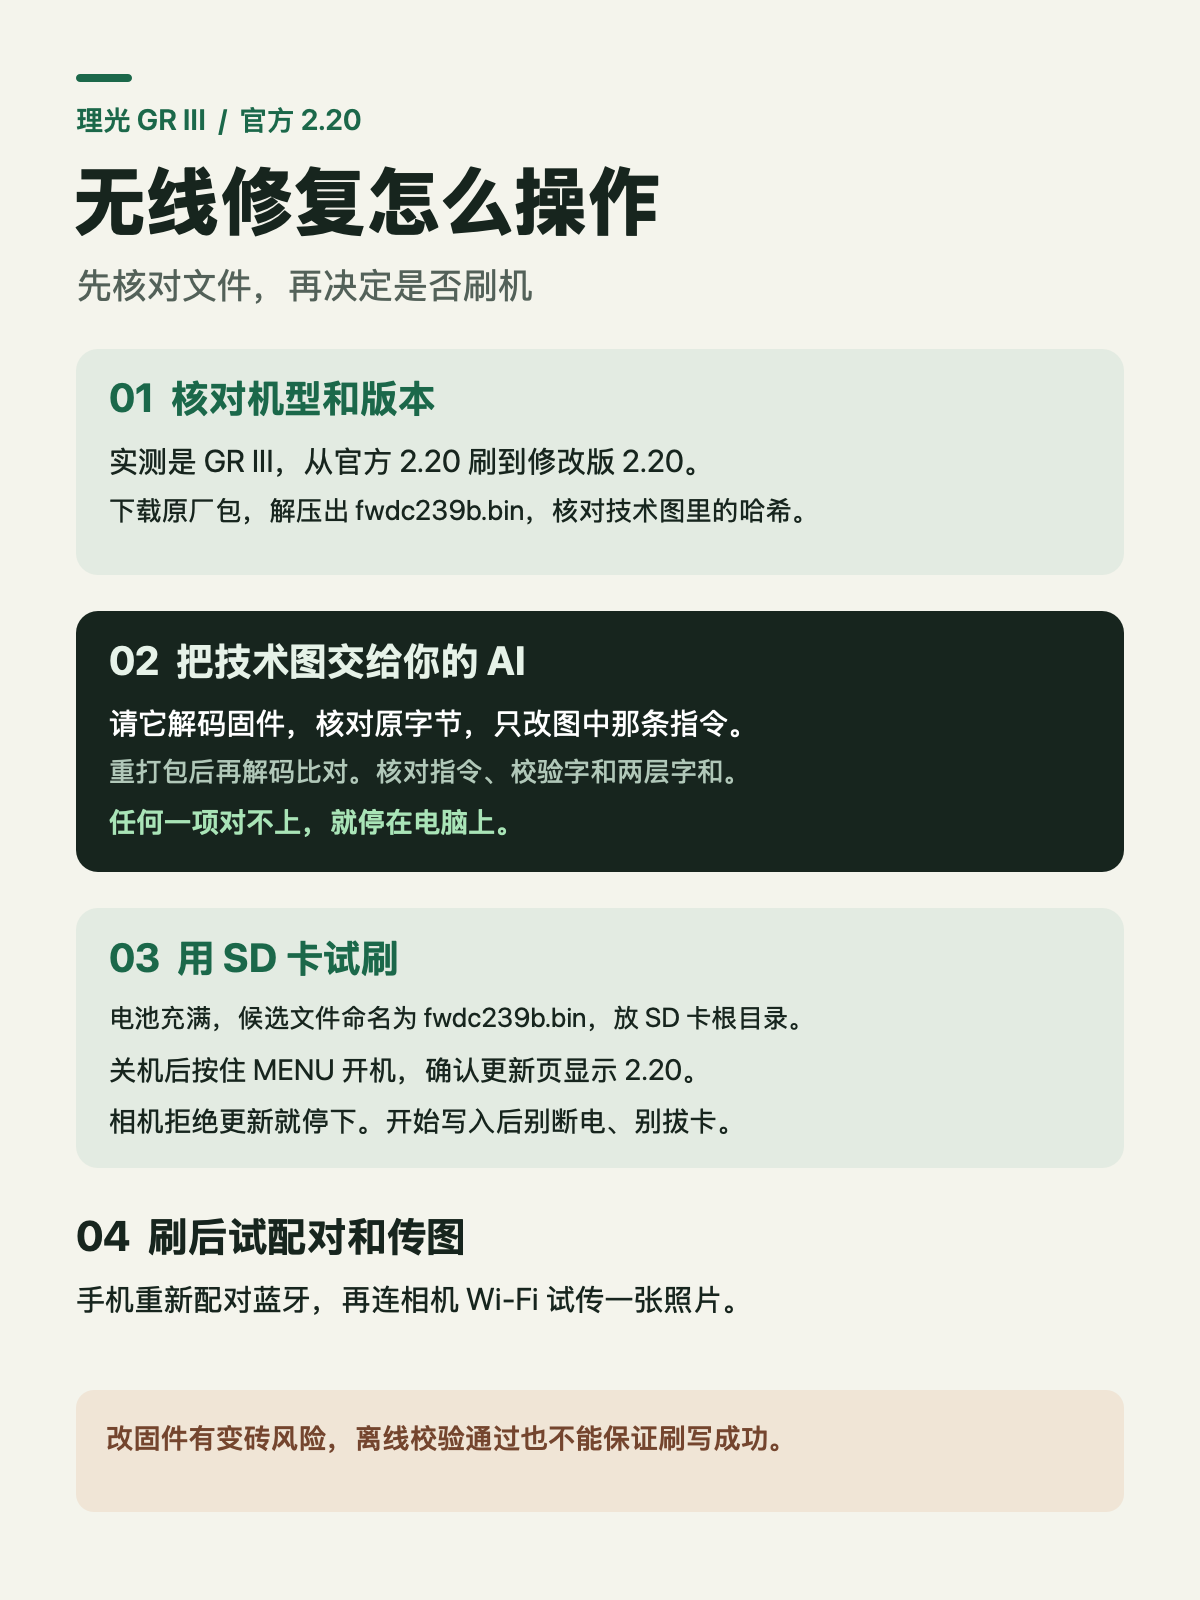
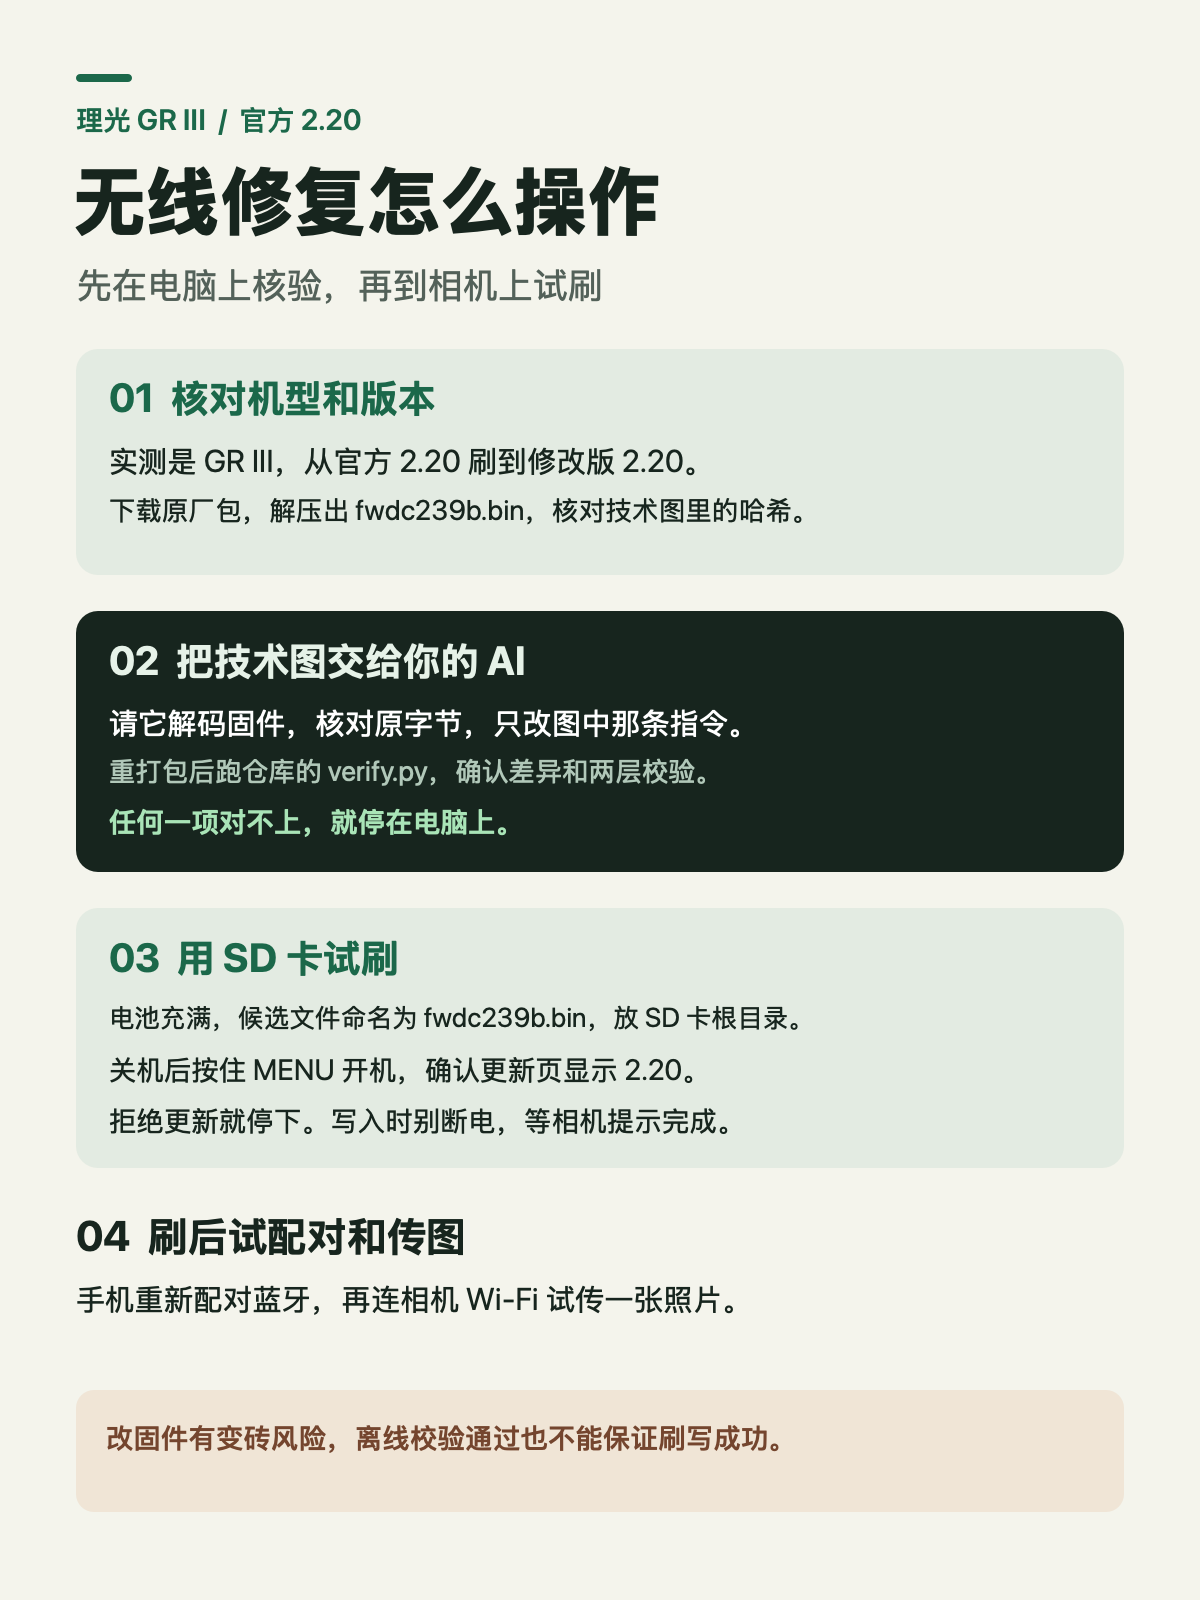
Structure wireless repair docs and record open diagnosis

Changed region(s): [[0.0925, 0.6875, 0.6167, 0.7188], [0.185, 0.4688, 0.6167, 0.5], [0.0925, 0.1562, 0.4933, 0.1875]]

diff --git a/verify.py b/verify.py
@@ -29,7 +29,15 @@ def main():
     if stock[:128] != candidate[:128] or stock[-24:-12] != candidate[-24:-12]:
         raise ValueError("Container header or footer identity fields differ.")
 
+    stock_metadata = stock[stock_info["metadata_start"]:-24]
+    candidate_metadata = candidate[candidate_info["metadata_start"]:-24]
+    if candidate_metadata != stock_metadata:
+        raise ValueError("Container metadata differs.")
+
     def decode(data, info):
+        padding = data[info["payload_end"]:info["metadata_start"]]
+        if any(padding):
+            raise ValueError("Nonzero container alignment padding.")
         decoded, _ = decode_payload(data[128:info["payload_end"]], info["decoded_size"])
         if info["additive_sum32"] != 0 or sum32(decoded) != 0:
             raise ValueError("Container or decoded payload checksum failed.")

diff --git a/README.md b/README.md
@@ -1,60 +1,28 @@
 # Ricoh GR III 2.20 蓝牙与 Wi-Fi 修复记录
 
-一次 GR III 实机复现。升级固件后，先发现蓝牙无法配对，后来发现相机里 WLAN 能选「打开」，但图标仍灰，手机和 Mac 都搜不到热点。关机长按回放键也无法启动热点。最初出问题时的版本记不清，可能是 1.91 或 2.00。此后升级到官方 2.20，故障仍在。从**官方 2.20 刷到基于同一官方版本的修改版 2.20**后，本机无线功能恢复。
+我的 GR III 在一次固件升级后先是蓝牙配不上，后来发现 Wi-Fi 菜单能选「打开」，但图标仍灰，手机和 Mac 都搜不到热点。长按回放键也没有启动热点。最早出问题时的固件版本记不清，可能是 1.91 或 2.00。官方 2.20 仍有同样症状。
 
-仓库记录分析、核对和实机过程。原厂固件请从理光下载。改固件和刷机有风险，离线核验通过也无法保证相机接受更新、正常开机或恢复无线功能。理光的固件许可见官方更新页。
+**单台实测结果**
 
-![操作流程](docs/how-to.png)
+GR III 从官方 2.20 刷到基于同版原厂镜像制作的修改版 2.20 后，无线功能恢复。改动让固件对机身调整数据的这一项检查通过。为什么原来过不了，仍待查证。
 
-## 为什么这个方法在本机有效
+## 从哪里开始
 
-固件在启用 WLAN 和 BLE 时读取机身调整数据里的一个值。这个值没通过检查时，固件会进入无线禁用分支，并有对应日志 `wlan and ble control is disabled by adjust data`。为什么那次升级后这项检查过不了，目前不清楚。改动把这项检查的结果固定为通过，保留函数的其他启用条件，机身调整数据不写入。旧版反汇编图提供了线索，下文的位置是在官方 2.20 镜像上重新确认的。
+| 要做什么 | 看哪里 |
+| --- | --- |
+| 对照症状、版本和试刷流程 | [机友操作指南](docs/camera-workflow.md) |
+| 核对原厂文件、指令位置、重打包和校验 | [电脑端复现记录](docs/reproduction.md) |
+| 把任务交给能操作本地文件的 AI | [AI 执行清单](docs/ai-handoff.md) |
+| 查看为什么标记会触发禁用 | [未解决的问题](docs/open-question.md) |
+| 对照手里的候选文件 | [只读校验脚本](verify.py) |
 
-## 原厂输入和唯一改动
+![GR III 2.20 修复操作图](docs/how-to.png)
 
-- 机型为 **GR III**，实测起始版本为**官方 2.20**。
-- 下载 [理光官方 gr3_v220.zip](https://www.ricoh-imaging.co.jp/resources/japan/support/download/digital/FIRMWARE/gr3_v220.zip)，解压得到 `fwdc239b.bin`，大小为 30,472,516 字节。
[1 lines of base64/hex data omitted]
-- 用下文的容器解析器读出 payload 边界和解码大小。对完整 payload 解码。偏移 **0x3ED7E4** 从解码结果的第一个字节起算，位于 RTOS 段内。
-- 偏移前 8 字节开始的上下文如下，在指定原厂镜像解码结果中唯一。只替换方括号内四字节。
+仓库内无固件 BIN。原厂固件通过理光官网获取。刷写修改版固件可能导致相机无法开机，离线校验通过也无法保证更新或修复成功。
 
-```text
-B4 00 D3 E1 10 4F 6F E1 [A4 42 A0 E1] 00 00 54 E3 07 00 00 1A
-LSR R4, R4, #5 → MOV R4, #1
-A4 42 A0 E1    → 01 40 A0 E3
-```
+## 来源
 
-![原厂镜像、指令及校验](docs/patch-reference.png)
-
-## 重打包和验证
-
-1. 保留原厂解码段布局，更新解码 payload 末尾校验字，使小端 32 位字和模 2³² 为零。
-2. 用原厂容器作模板重打包。实测文件尽可能复用原厂压缩帧。对不能解码出目标字节的帧，用同一编解码器允许的 literal 帧编码，再更新容器长度与末尾校验字。实测文件替换了两个帧。
-3. 对生成的文件重新解码。逐字节核对解码结果只在该指令和末尾校验字处有差异。完整容器和解码 payload 的 32 位字和都应为零。
[1 lines of base64/hex data omitted]
-
-### 给 AI 的容器处理细节
-
-- `inspect_container(stock)` 提供 `payload_end` 和 `decoded_size`。把 `stock[128:payload_end]` 交给 `decode_payload`，得到完整的解码字节与帧坐标。别把 RTOS 段单独切出来后再使用上面的偏移。
-- 重包时，对每个原始帧，使用**已修改的前序解码字节**尝试解码该帧，确认结果仍等于目标片段再复用原始编码。压缩回引用可以跨帧，单看当前帧覆盖范围不足以判断是否能复用。实测中替换的片段使用不超过 `0x6000` 字节的 literal 帧。
-- 保留流结束标记和原厂容器头，用解析器的 `framed_container` 处理对齐、容器尾部长度及整包校验。最后从生成的 BIN 重新解码再运行校验。
-- 如果 AI 只能在聊天窗口读图、无法实际运行二进制解码和比对，就让它先给出本地操作方案。实际校验需要在能读取两个 BIN 的电脑上执行。
-
-## 在电脑上只读核验
-
-使用 Python 3 和公开的 [gr-custom-tool](https://github.com/DoYitNow/gr-custom-tool) 容器解析器。本仓库的校验脚本只读取输入文件，解析器由使用者另行获取。
-
-```sh
-git clone https://github.com/DoYitNow/gr-custom-tool.git
-git -C gr-custom-tool checkout 258d745aab8691fbbeb4a68b024be9a24333c9ea
-python3 verify.py --codec ./gr-custom-tool /path/to/stock.bin /path/to/candidate.bin
-```
-
-可以把本页、两张图和自己下载的原厂 BIN 交给 AI，要求它先核对原厂哈希及指令上下文，再生成候选并运行上述校验。任一检查失败就停在电脑上。相机拒绝更新时停下，记录提示。
-
-## 相机端实测步骤
-
-使用充满电的电池。将候选命名为 `fwdc239b.bin`，单独放到 SD 卡根目录。关机后按住 MENU 开机，在正常更新确认页核对目标版本 2.20。开始写入后不要断电或拔卡。完成后重启，可以通过蓝牙重新配对和 Wi-Fi 实际传图检查效果。
-
-- [理光 GR III 更新步骤和许可](https://www.ricoh-imaging.co.jp/english/support/digital/gr3_s.html)
-- [社区 GR III 2.10 调查记录](https://github.com/idontknownihil/gr3-film-mods/blob/main/FINDINGS.md#22a-camera-result-factory-mode-2026-10-08-entry-works-on-gr-iii-210)。最初的单指令思路来自机友的 2.10 反汇编截图。
+- [理光 GR III 更新步骤与固件许可](https://www.ricoh-imaging.co.jp/english/support/digital/gr3_s.html)
+- [社区 GR III 2.10 实机日志记录](https://github.com/idontknownihil/gr3-film-mods/blob/main/FINDINGS.md#22a-camera-result-factory-mode-2026-10-08-entry-works-on-gr-iii-210)
+- [gr-custom-tool 容器解析器](https://github.com/DoYitNow/gr-custom-tool)。使用者按复现指南另行获取固定版本。
+- 单指令改动的思路来自一位机友分享的 2.10 反汇编截图。2.20 的位置和字节由原厂镜像重新核对。

diff --git a/docs/reproduction.md b/docs/reproduction.md
@@ -1,0 +1,49 @@
+# 在电脑上复现 GR III 2.20 的无线补丁
+
+## 原厂输入和唯一改动
+
+- 机型为 **GR III**，实测起始版本为**官方 2.20**。
+- 下载 [理光官方 gr3_v220.zip](https://www.ricoh-imaging.co.jp/resources/japan/support/download/digital/FIRMWARE/gr3_v220.zip)，解压得到 `fwdc239b.bin`，大小为 30,472,516 字节。
[1 lines of base64/hex data omitted]
+- 用下文的容器解析器读出 payload 边界和解码大小。对完整 payload 解码。偏移 **0x3ED7E4** 从解码结果的第一个字节起算，位于 RTOS 段内。
+- 偏移前 8 字节开始的上下文如下，在指定原厂镜像解码结果中唯一。只替换方括号内四字节。
+
+```text
+B4 00 D3 E1 10 4F 6F E1 [A4 42 A0 E1] 00 00 54 E3 07 00 00 1A
+LSR R4, R4, #5 → MOV R4, #1
+A4 42 A0 E1    → 01 40 A0 E3
+```
+
+![原厂镜像、指令及校验](patch-reference.png)
+
+## 重打包和验证
+
+1. 保留原厂解码段布局，更新解码 payload 末尾校验字，使小端 32 位字和模 2³² 为零。
+2. 用原厂容器作模板重打包。实测文件尽可能复用原厂压缩帧。对不能解码出目标字节的帧，用同一编解码器允许的 literal 帧编码，再更新容器长度与末尾校验字。实测文件替换了两个帧。
+3. 对生成的文件重新解码。逐字节核对解码结果只在该指令和末尾校验字处有差异。完整容器和解码 payload 的 32 位字和都应为零。
[1 lines of base64/hex data omitted]
+
+### 给 AI 的容器处理细节
+
+- `inspect_container(stock)` 提供 `payload_end` 和 `decoded_size`。把 `stock[128:payload_end]` 交给 `decode_payload`，得到完整的解码字节与帧坐标。别把 RTOS 段单独切出来后再使用上面的偏移。
+- 重包时，对每个原始帧，使用**已修改的前序解码字节**尝试解码该帧，确认结果仍等于目标片段再复用原始编码。压缩回引用可以跨帧，单看当前帧覆盖范围不足以判断是否能复用。实测中替换的片段使用不超过 `0x6000` 字节的 literal 帧。
+- 保留流结束标记和原厂容器头，用解析器的 `framed_container` 处理对齐、容器尾部长度及整包校验。最后从生成的 BIN 重新解码再运行校验。
+- 如果 AI 只能在聊天窗口读图、无法实际运行二进制解码和比对，就让它先给出本地操作方案。实际校验需要在能读取两个 BIN 的电脑上执行。
+
+## 在电脑上只读核验
+
+使用 Python 3 和公开的 [gr-custom-tool](https://github.com/DoYitNow/gr-custom-tool) 容器解析器。本仓库的校验脚本只读取输入文件，解析器由使用者另行获取。
+
+```sh
+git clone https://github.com/DoYitNow/gr-custom-tool.git
+git -C gr-custom-tool checkout 258d745aab8691fbbeb4a68b024be9a24333c9ea
+python3 verify.py --codec ./gr-custom-tool /path/to/stock.bin /path/to/candidate.bin
+```
+
+可以把本页、两张图和自己下载的原厂 BIN 交给 AI，要求它先核对原厂哈希及指令上下文，再生成候选并运行上述校验。任一检查失败就停在电脑上。相机拒绝更新时停下，记录提示。
+
+## 核验输出怎么读
+
+- `PASS` 表示候选通过脚本列出的离线检查。候选哈希与实测文件相同，表示文件逐字节相同。哈希不同时，可以对照具体容器差异，不能把候选称为实测文件。
+- `FAIL` 或异常表示核验未通过。保留原厂输入，查看失败原因，修正后再跑。没有实际运行工具时，结果记为未核验。
+- 这份记录只涵盖文中 SHA-256 对应的 GR III 2.20 原厂镜像。其他机型、固件版本和从其他版本刷入的情况未验证。

diff --git a/docs/camera-workflow.md b/docs/camera-workflow.md
@@ -1,0 +1,19 @@
+# 机友操作指南
+
+## 先对照症状
+
+这次实测的机身是理光 GR III，刷入前为官方 2.20。故障在更早的一次升级后出现。先是蓝牙配不上，随后发现 Wi-Fi 菜单能选「打开」，但图标仍灰，手机和 Mac 都搜不到热点。关机长按回放键也没有启动热点。即使症状相似，故障原因也可能不同。
+
+## 在电脑上准备
+
+从[理光官方 2.20 下载地址](https://www.ricoh-imaging.co.jp/resources/japan/support/download/digital/FIRMWARE/gr3_v220.zip)取得原厂镜像，解出 `fwdc239b.bin`。按[复现记录](reproduction.md)核对机型、版本和原厂 BIN 哈希，再让 AI 按[执行清单](ai-handoff.md)处理。用只读校验脚本检查生成的候选文件。检查失败或没有实际运行时，先停在电脑上。
+
+## 试刷与测试
+
+1. 备份 SD 卡内容，准备一张在相机中格式化过的空卡和一块充满电的电池。
+2. 保留原厂文件备份。将已核验的候选文件命名为 `fwdc239b.bin`，单独放在 SD 卡根目录。
+3. 相机关机，插卡，按住 MENU 再开机。在更新确认页核对目标版本为 **2.20**，再选择执行。如果没有正常显示确认页、版本不符或相机拒绝更新，停下并记录提示。
+4. 开始写入后不要关机、拔卡或取电池。等显示更新完成，再关机、取卡并正常开机。
+5. 分别确认手机能否蓝牙配对、能否连到相机 Wi-Fi 并传一张照片。记录机型、刷前版本和两项结果。
+
+**刷写有变砖风险。** 本次只验证了一台 GR III 从官方 2.20 刷到修改版 2.20。刷回原版的路径尚未验证。 [理光官方更新步骤](https://www.ricoh-imaging.co.jp/english/support/digital/gr3_s.html)

diff --git a/docs/open-question.md b/docs/open-question.md
@@ -1,0 +1,15 @@
+# 未解决的问题：为什么这项检查会失败？
+
+## 已知
+
+这台 GR III 的蓝牙和 Wi-Fi 在一次官方固件升级后失效，确切起始版本已记不清。到了官方 2.20，症状仍在。官方 2.20 的无线控制代码读取调整数据中的一个值，然后根据它决定该项检查是否通过。把这项检查固定为通过后，本机无线功能恢复。另一台 GR III 的公开 2.10 实机记录也出现过同一条禁用日志，但记录者没有确认其含义。 [社区实机记录](https://github.com/idontknownihil/gr3-film-mods/blob/main/FINDINGS.md#22a-camera-result-factory-mode-2026-10-08-entry-works-on-gr-iii-210)
+
+## 可能的解释
+
+| 假设 | 需要什么证据 |
+| --- | --- |
+| 调整数据原来存的值在升级或初始化期间变了 | 同一台相机升级前后、由原厂流程或已验证的只读方式取得的记录 |
+| 存储内容没变，但固件读取失败、取到默认值，或对同一字段的解释变了 | 对比相关官方版本的字段读取、默认值和判定路径，并取得匹配的运行日志 |
+| 问题原先已存在，恰好在升级后第一次做无线测试时发现 | 能确定同一台机身升级前后无线功能状态的记录 |
+
+本机的日志导出没有产生文件，也没有升级前的调整数据备份。因此还无法确定是字段被改写、读取异常，还是其他原因。发反馈时，提供机型、升级前后版本、蓝牙配对和 Wi-Fi 热点表现即可。涉及序列号、MAC 或校准数据的完整文件请留在本机。

diff --git a/docs/ai-handoff.md b/docs/ai-handoff.md
@@ -1,0 +1,15 @@
+# 给本地 AI 的执行清单
+
+把本页、[电脑端复现记录](reproduction.md)和用户从理光下载的原厂 2.20 BIN 交给能在电脑上读写二进制文件、运行命令的 AI。仅能读图的 AI 可以解释步骤，文件校验要在本地实际执行。
+
+## 可复制的任务说明
+
+> 我有一台理光 GR III，机身当前是官方 2.20。请按本仓库的复现记录，在电脑上生成一个待校验的 WLAN/BLE 修复候选。
+>
+> 1. 先确认机身型号和版本，计算原厂 BIN SHA-256。输入不符即停止。
+> 2. 使用复现记录中固定版本的解析器，解码完整 payload，检查两层校验。确认上下文唯一，且解码偏移和原字节与文档一致。
+> 3. 只替换指定的四字节 ARM 指令，更新解码校验字并重打包。候选写到新文件，保留原厂输入。
+> 4. 对候选重新解码，实际运行仓库的 `verify.py`。返回执行命令、完整输出、候选路径与 SHA-256。遇到不匹配或工具不可用，说明停在哪一步。
+> 5. 把电脑端的校验和相机端的试刷分开记录。刷机由我在相机上操作。
+
+实测文件的 SHA-256 是可选的对照值。不同的压缩帧编码可能得到不同的容器，但需要通过相同的解码内容校验。
